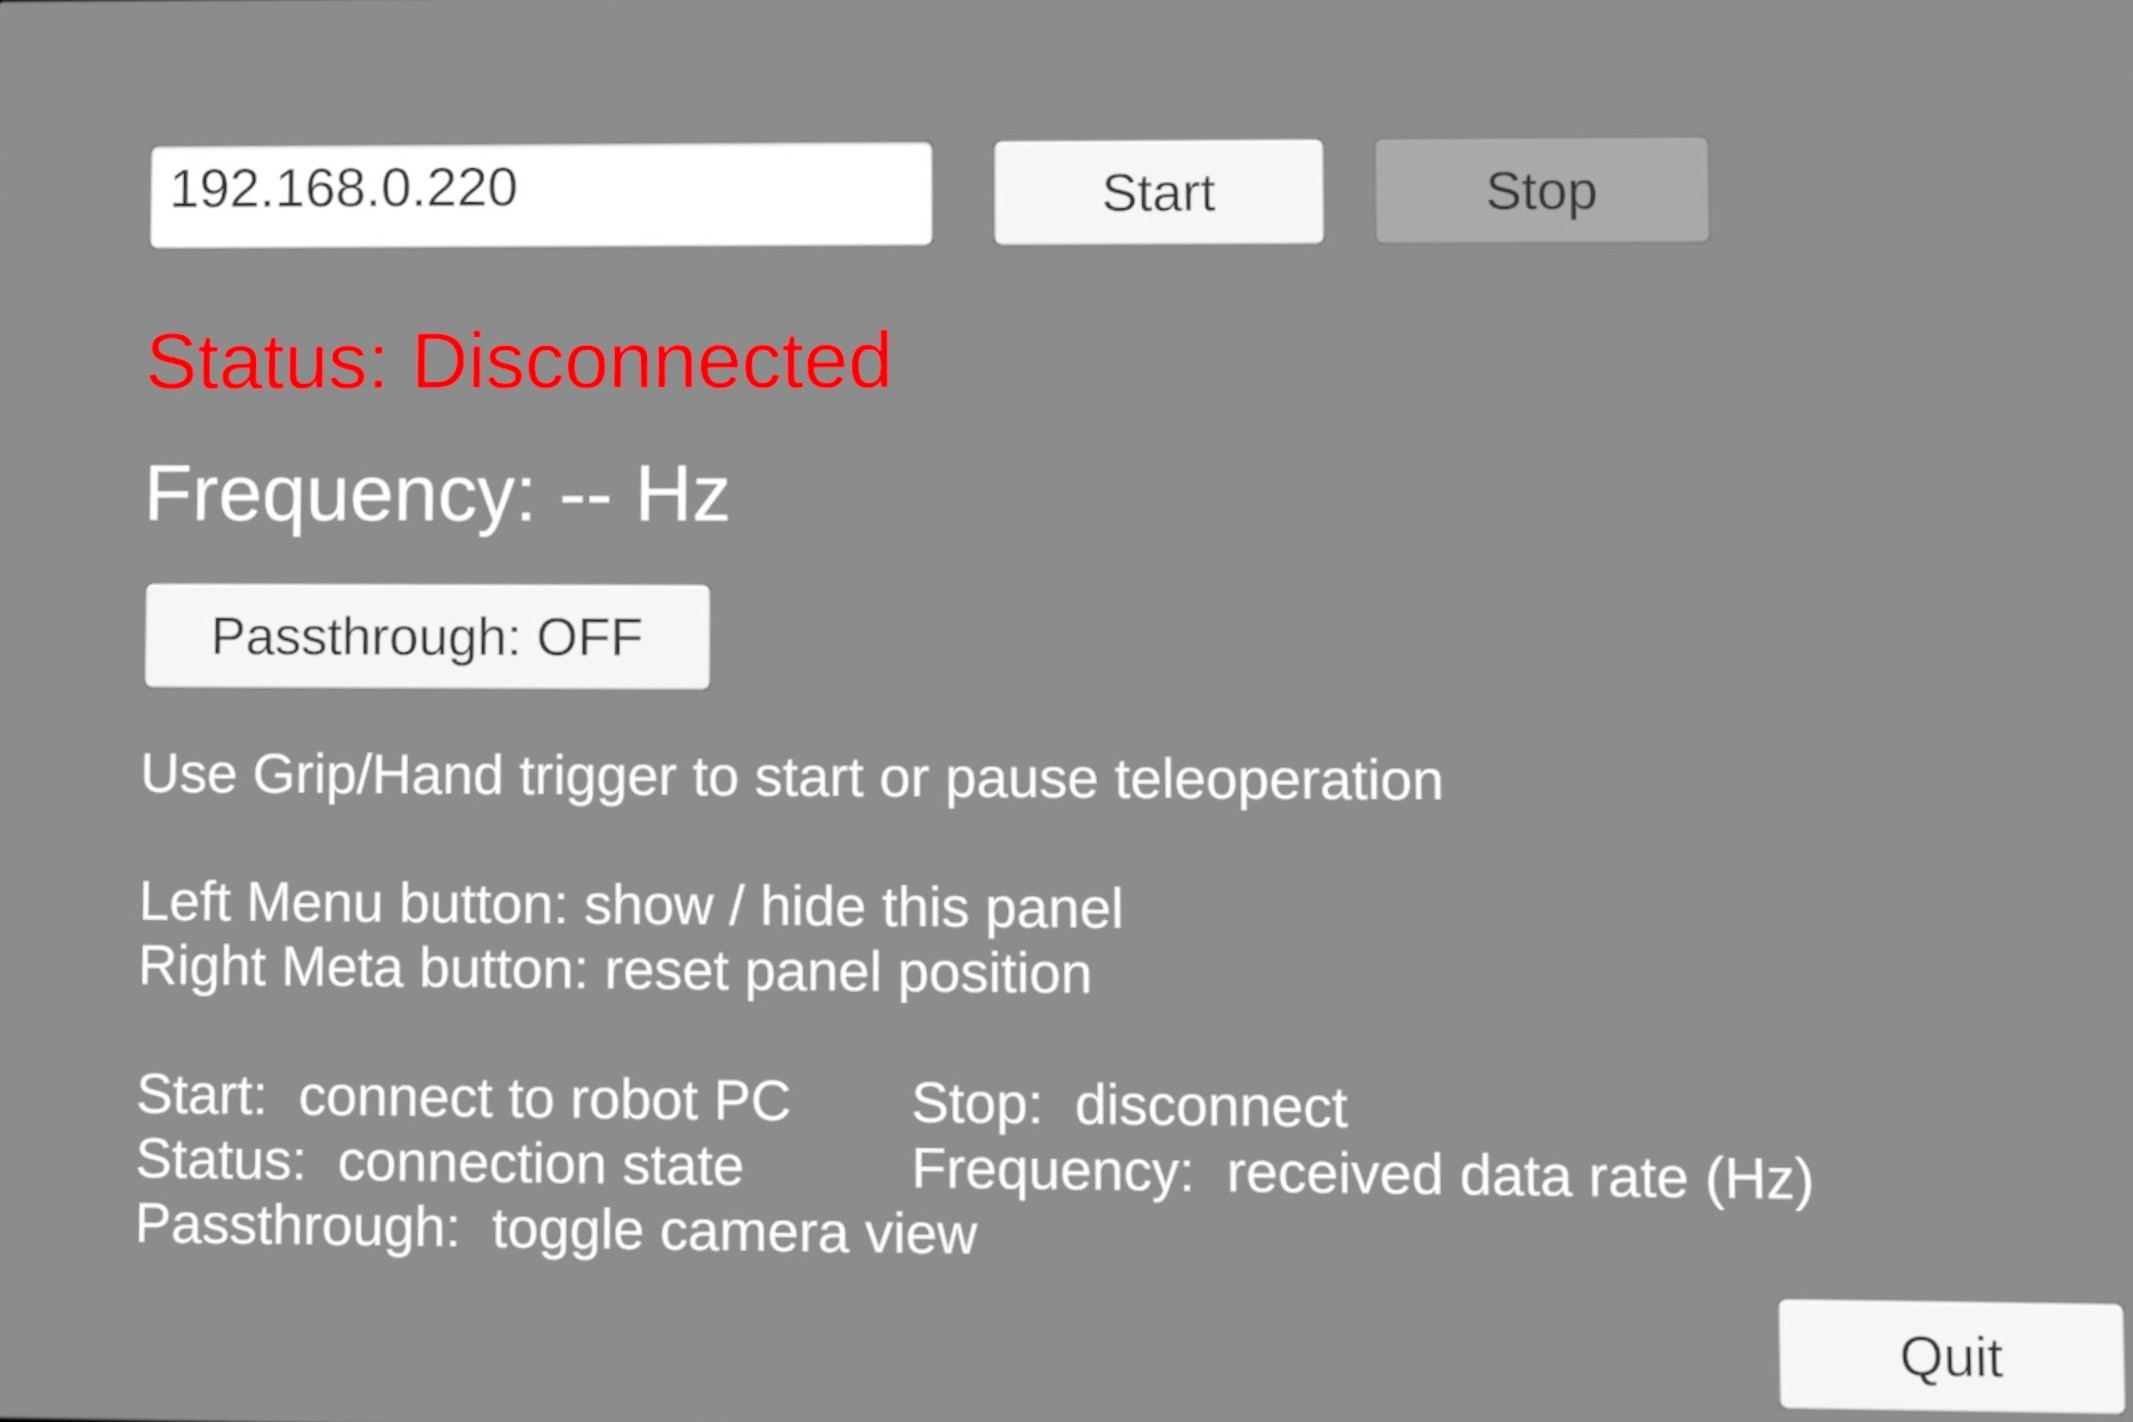
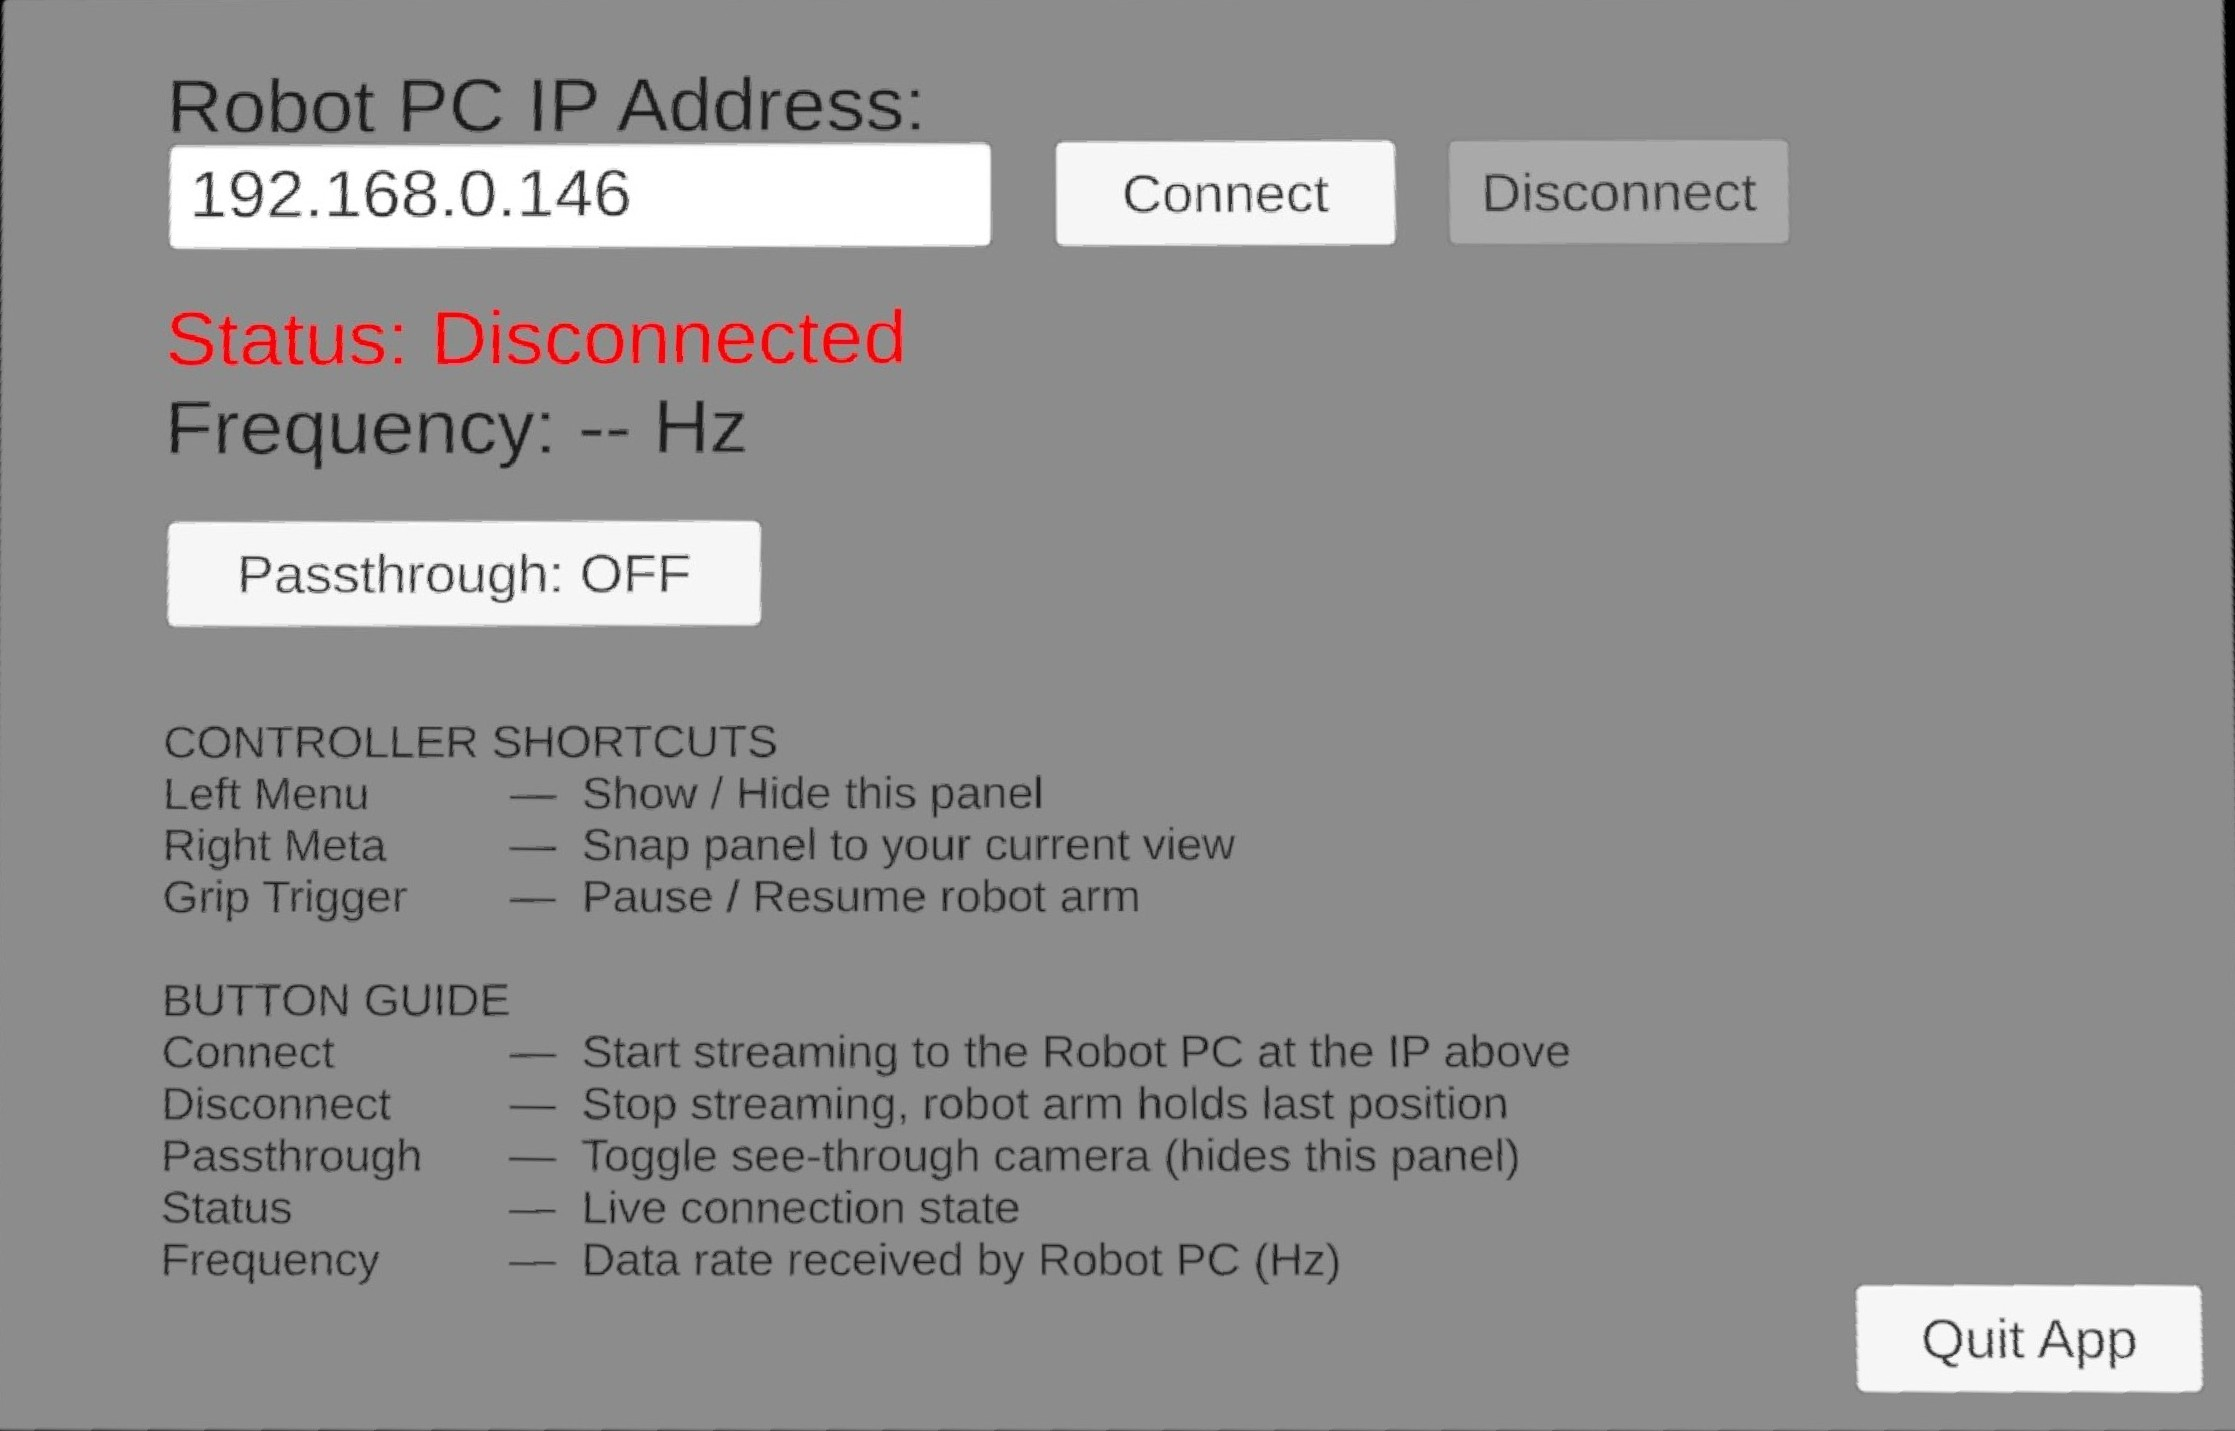
update ui

diff --git a/README.md b/README.md
@@ -113,23 +113,23 @@ The Trossen VR Teleop app (`assets/VR_Teleop.apk`) can be sideloaded onto a Meta
 
 | Element | Description |
 |---------|-------------|
-| **IP Address field** | IP address of the PC running this `trossen_vr` library |
-| **Start** | Connect to the robot PC |
-| **Stop** | Disconnect |
-| **Status** | Connection state: `Disconnected` → `Connecting` → `Connected` / `Degraded` |
-| **Frequency** | Data receive rate in Hz |
+| **Robot PC Address field** | IP address of the PC running this `trossen_vr` library |
+| **Connect** | Connect to the robot PC and start streaming arm data |
+| **Disconnect** | Stop streaming (robot arm holds its last position) |
+| **Status** | Live connection state: `Disconnected` → `Connecting` → `Connected` / `Degraded` |
+| **Frequency** | Data receive rate in Hz (shown once connected) |
 | **Passthrough** | Toggle camera passthrough view |
 | **Quit** | Exit the application |
 
-Additional controller shortcuts:
+Controller shortcuts:
 
 - **Left Menu Button**: Show or hide the UI panel
-- **Right Meta Button**: Reset the UI panel position to its default location
+- **Right Meta Button**: Snap the UI panel to in front of your current view
 - **Grip / Hand Trigger (deadman switch)**: Hold to enable tracking and engage the arm. Release to pause.
 
 ### Configuring the IP Address
 
-Enter the IP address of the PC running the trossen_vr application or demo in the text field, then press Start button.
+Enter the IP address of the PC running the trossen_vr application or demo in the **Robot PC IP Address** field, then press **Connect**.
 The headset and PC must be on the same network.
 
 ### Ways of Operating